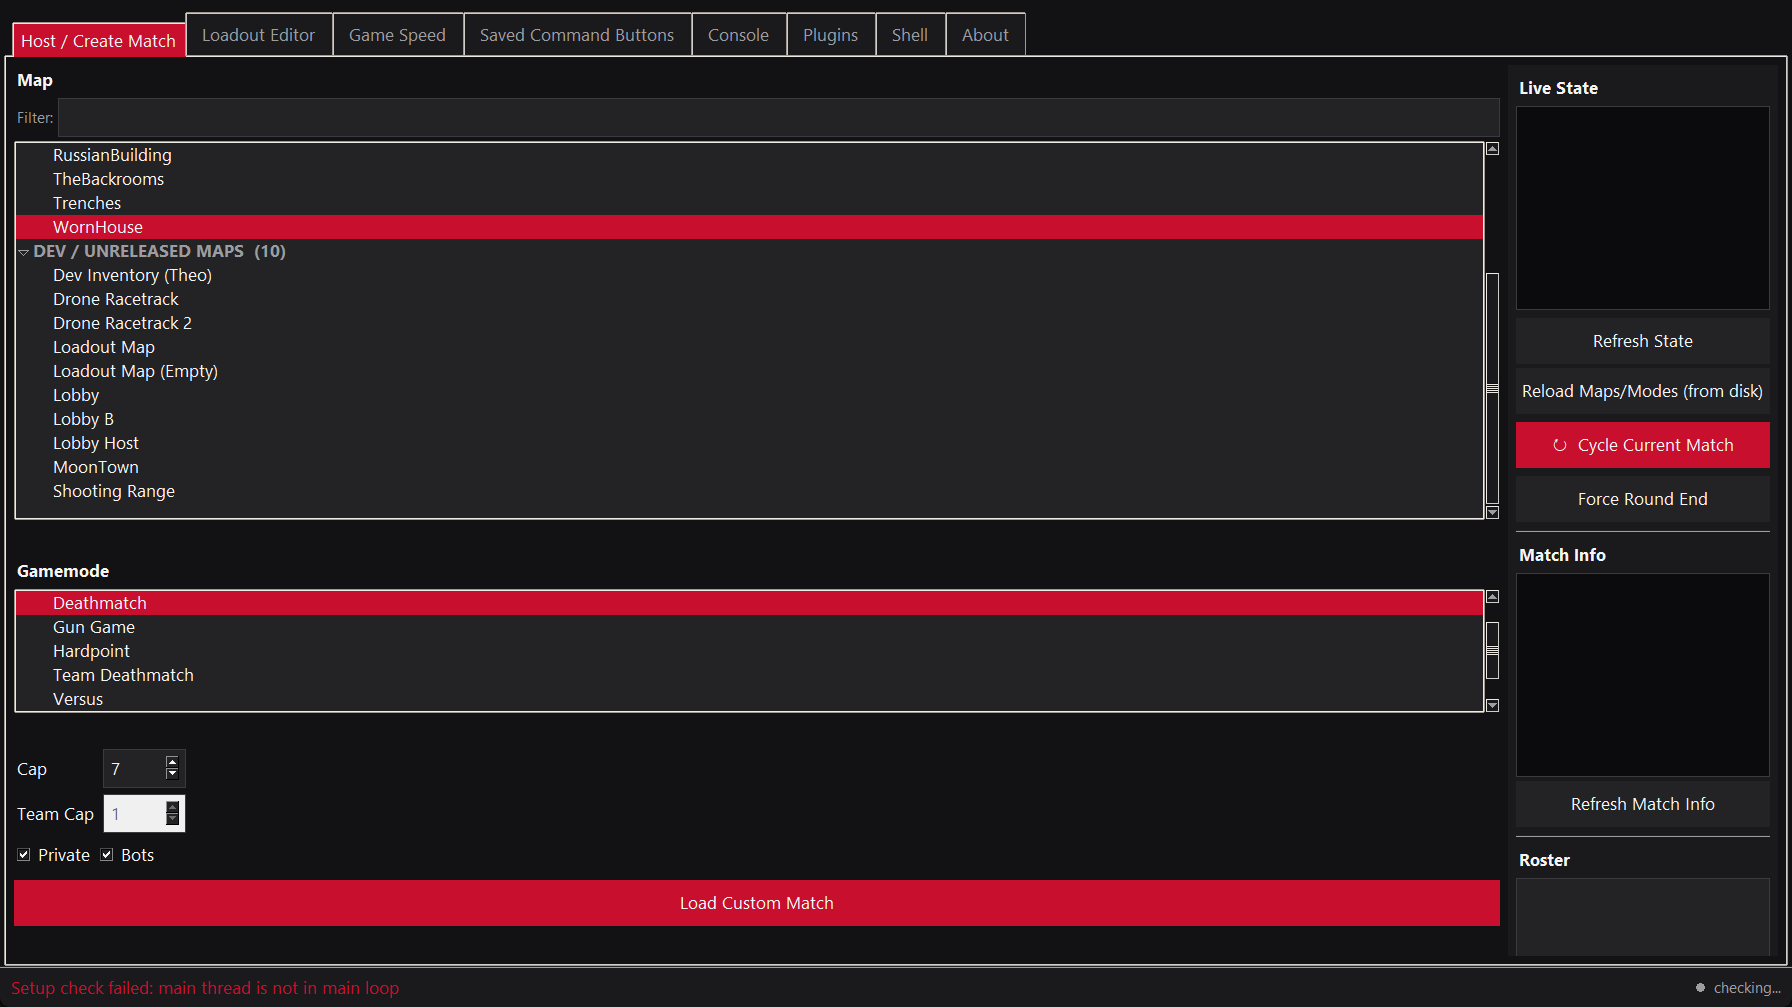
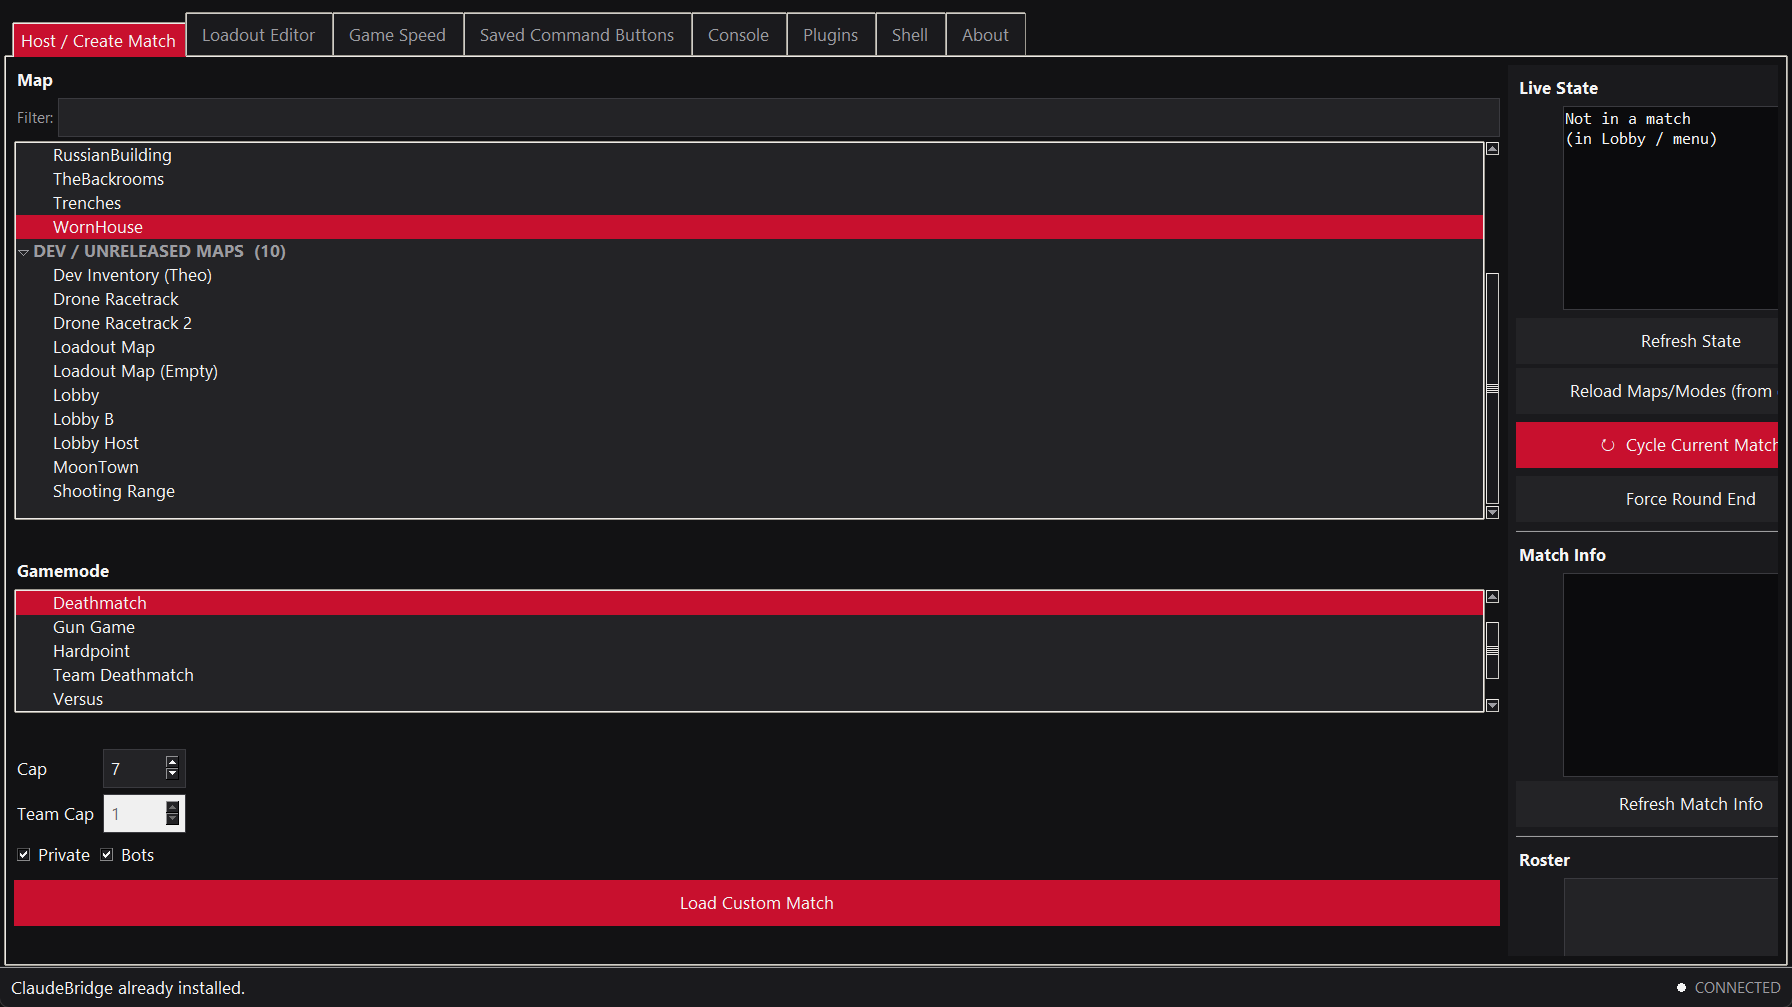
Retake screenshots with the game connected, drop badges for the private repo, fix doc leftovers
- dev/shots.py (gitignored): fixed the update()/sleep(8) race from F1;
  also found and worked around the game repeatedly stealing focus and
  re-minimizing the overlay window, and update_idletasks() not forcing a
  real repaint before the grab -- both needed for an honest capture.
- game_api.py: get_currency()/set_currency() were silently broken --
  ActualReissadPointsScore no longer exists on GI_BodycamSteamBackend_C
  (a Bodycam update removed it; confirmed by enumerating the live class's
  properties). Both now raise a clear RuntimeError instead of crashing on
  int(), and overlay_app.py no longer calls get_currency() from the
  startup auto-refresh, so it doesn't throw a red status line on every
  launch. Real fix needs re-investigating the async balance-fetch path --
  tracked in dev/TODO.md.
- README: drop shields.io badges (repo is private, they don't render),
  credit the vendored RE-UE4SS experimental-latest build, dedupe the
  "not responding" and no-op-cheats explanations against
  DOCUMENTATION.md/INTERNALS.md (F6).
- Cosmetic fixes: ui_common.py's stale "explosive-bullets" docstring (F3),
  gamemodes.json's dead reference.md citation (F4), DOCUMENTATION.md's
  enabler-mod list missing Keybinds (F5), main.lua's "in the repo root"
  phrasing (F7).
- Confirmed live with the game open: GameBridge redeploy messaging,
  pc()/gm() validity in a hosted match, Auto-Clear's after_cancel guard
  against doubled RPC chains, Save-as-Button's modal grab under live
[…]

diff --git a/src/game_api.py b/src/game_api.py
@@ -1402,17 +1402,36 @@ return 'SelectNewCurrentLoadout({loadout_idx}) ok=' .. tostring(ok)
 # UObject property this app already writes (e.g. Loadout slot names,
 # HMS_bBotsMethod). No UFUNCTION call, no struct marshaling, so none of the
 # crash classes documented elsewhere in this file apply.
+_CURRENCY_MISSING_MSG = (
+    "ActualReissadPointsScore no longer exists on GI_BodycamSteamBackend_C -- "
+    "a Bodycam update removed it (the class now exposes FetchCurrentPlayerBalance "
+    "/ UpdatePlayerBalance instead, an async backend call, not a plain property). "
+    "Needs real re-investigation before this is wired up again -- see dev/TODO.md."
+)
+_CURRENCY_GUARD_LUA = """
+if type(gi.ActualReissadPointsScore) == 'userdata' then
+    return 'ERR:MISSING_PROPERTY'
+end"""
+
+
 def get_currency(timeout=15):
     """Reads the live Reissad Points balance and cap straight from the
     GameInstance. Confirmed live: matches what the in-game currency display
     presumably shows (not independently screen-verified, but this is the
     same field CheatGetReissadPoint's test read from, and it's the field
-    set_currency() below writes to)."""
-    lua = r"""
+    set_currency() below writes to).
+
+    As of 2026-09-12 this property is gone from the live class (see
+    _CURRENCY_MISSING_MSG) -- raises RuntimeError instead of a confusing
+    int-parse crash until that's re-investigated."""
+    lua = f"""
 local gi = UEHelpers.GetGameInstance()
+{_CURRENCY_GUARD_LUA}
 return tostring(gi.ActualReissadPointsScore) .. '|' .. tostring(gi.MaxAllowedReissadPoints)
 """
     body = bc.run_lua(lua, timeout=timeout).strip()
+    if body == "ERR:MISSING_PROPERTY":
+        raise RuntimeError(_CURRENCY_MISSING_MSG)
     balance_s, cap_s = body.split("|", 1)
     return {"balance": int(balance_s), "cap": int(cap_s)}
 
@@ -1456,11 +1475,14 @@ def set_currency(amount, timeout=15):
     amount = int(amount)
     lua = f"""
 local gi = UEHelpers.GetGameInstance()
+{_CURRENCY_GUARD_LUA}
 if {amount} > gi.MaxAllowedReissadPoints then gi.MaxAllowedReissadPoints = {amount} end
 gi.ActualReissadPointsScore = {amount}
 return tostring(gi.ActualReissadPointsScore) .. '|' .. tostring(gi.MaxAllowedReissadPoints)
 """
     body = bc.run_lua(lua, timeout=timeout).strip()
+    if body == "ERR:MISSING_PROPERTY":
+        raise RuntimeError(_CURRENCY_MISSING_MSG)
     balance_s, cap_s = body.split("|", 1)
     return {"balance": int(balance_s), "cap": int(cap_s)}
 

diff --git a/src/overlay_app.py b/src/overlay_app.py
@@ -261,7 +261,11 @@ class App:
                 self._first_ok = True
                 self.host_tab._refresh_weather_list()
                 self.host_tab._refresh_state()
-                self.loadout_tab._refresh_currency()
+                # Not loadout_tab._refresh_currency(): ActualReissadPointsScore
+                # is gone from the live class as of a Bodycam update (see
+                # game_api.get_currency's docstring) -- it would just throw a
+                # red status line on every launch. Manual Refresh still works
+                # (and reports the same clear error) if a fix lands later.
                 self.speed_tab._refresh_current()
             self.root.after(5000, self._poll_connection)
 

diff --git a/src/ui_common.py b/src/ui_common.py
@@ -154,8 +154,8 @@ def SaveButtonDialog(parent, on_save, categories=None, initial_category=""):
     a reusable button. A toggle button renders as a checkbox and injects
     `local TOGGLE_ON = true/false` ahead of the snippet's own code on every
     click, so a single saved script (checking TOGGLE_ON itself) drives both
-    states -- the same shape as the built-in bot-fill/explosive-bullets
-    toggles, just authored by whoever wrote the snippet."""
+    states -- the same shape as the built-in bot-fill toggle, just authored
+    by whoever wrote the snippet."""
     win = ui.toplevel(parent, "Save as Button")
 
     ui.label(win, text="Button name:").pack(anchor="w", padx=PAD_ML, pady=(PAD_ML, PAD_SM))

diff --git a/docs/DOCUMENTATION.md b/docs/DOCUMENTATION.md
@@ -111,10 +111,9 @@ doesn't.
 ### 2.3 Game Speed
 
 Slomo: 8 presets (0.1x–5x) plus a custom value field. **Player Cheats (Kill
-Self, Invincible, Infinite Ammo) are confirmed, via real-gameplay testing,
-to have no actual effect** despite calling with no Lua error — left as
-harmless no-ops rather than removed, and a standing reminder that "the call
-didn't error" is never proof of anything. **Perk / Gadget Cooldown** is a
+Self, Invincible, Infinite Ammo) call cleanly but have no actual effect** —
+left in as harmless no-ops; see [INTERNALS §5.5](INTERNALS.md#55-game_apipy--live-game-hacks-and-why-theyre-shaped-this-way)
+for which functions and what was observed. **Perk / Gadget Cooldown** is a
 real, working Server RPC: **Clear Cooldown Now** clears whatever cooldown is
 currently running, and **Auto-Clear** repeats that on a timer, since the
 effect only clears the *current* instance rather than disabling the system —
@@ -431,4 +430,4 @@ happened because a confirmation dialog appeared and was missed — see
 | `%LOCALAPPDATA%\BodycamOverlay\overlay.log` | The overlay's own log (rotating, capped) |
 | `%LOCALAPPDATA%\Temp\bodycam_bridge\` | `req.txt`/`resp.txt` (the live RPC channel) + `bridge.log` (ClaudeBridge's own log) |
 | `<Bodycam>\Binaries\Win64\ue4ss\` | UE4SS itself + all Mods, including ClaudeBridge — the exact folder location depends on which Steam library Bodycam is installed to |
-| `<Bodycam>\Binaries\Win64\ue4ss\Mods\mods.txt` | Enabled mods. Besides `ClaudeBridge`, expects 5 UE4SS enabler mods this app relies on: `CheatManagerEnablerMod`, `ConsoleCommandsMod`, `ConsoleEnablerMod`, `BPML_GenericFunctions`, `BPModLoaderMod` |
+| `<Bodycam>\Binaries\Win64\ue4ss\Mods\mods.txt` | Enabled mods. Besides `ClaudeBridge`, expects 6 UE4SS enabler mods this app relies on: `CheatManagerEnablerMod`, `ConsoleCommandsMod`, `ConsoleEnablerMod`, `BPML_GenericFunctions`, `BPModLoaderMod`, `Keybinds` |
